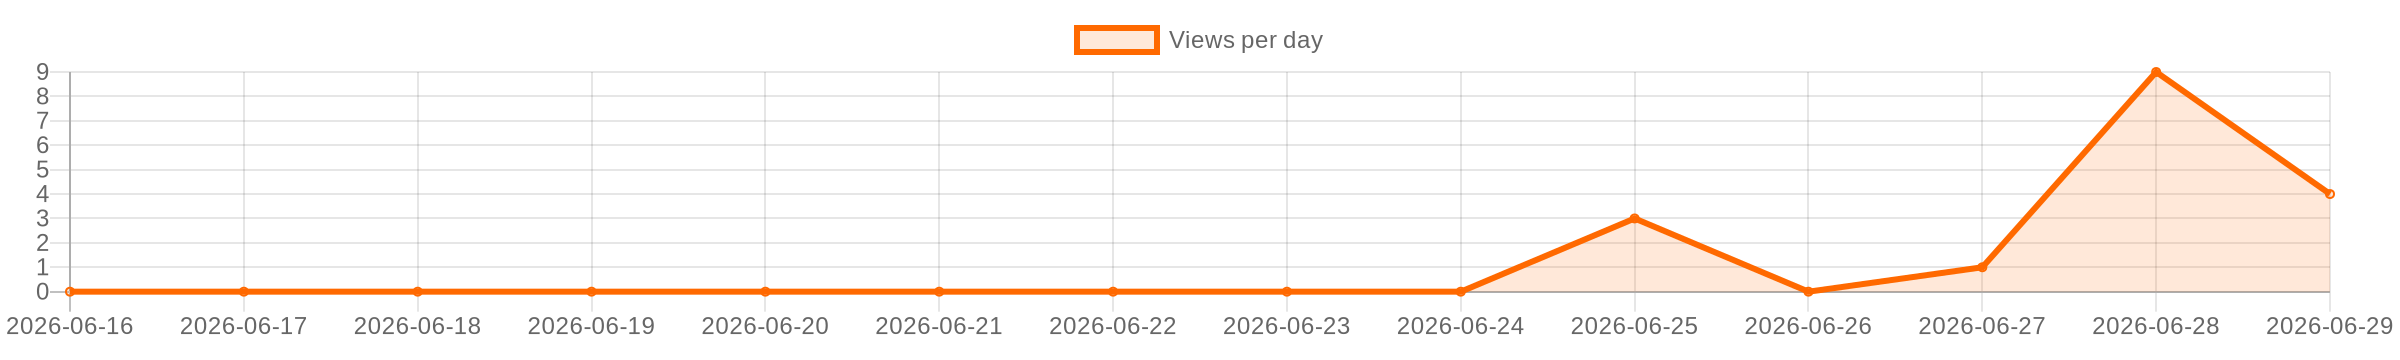
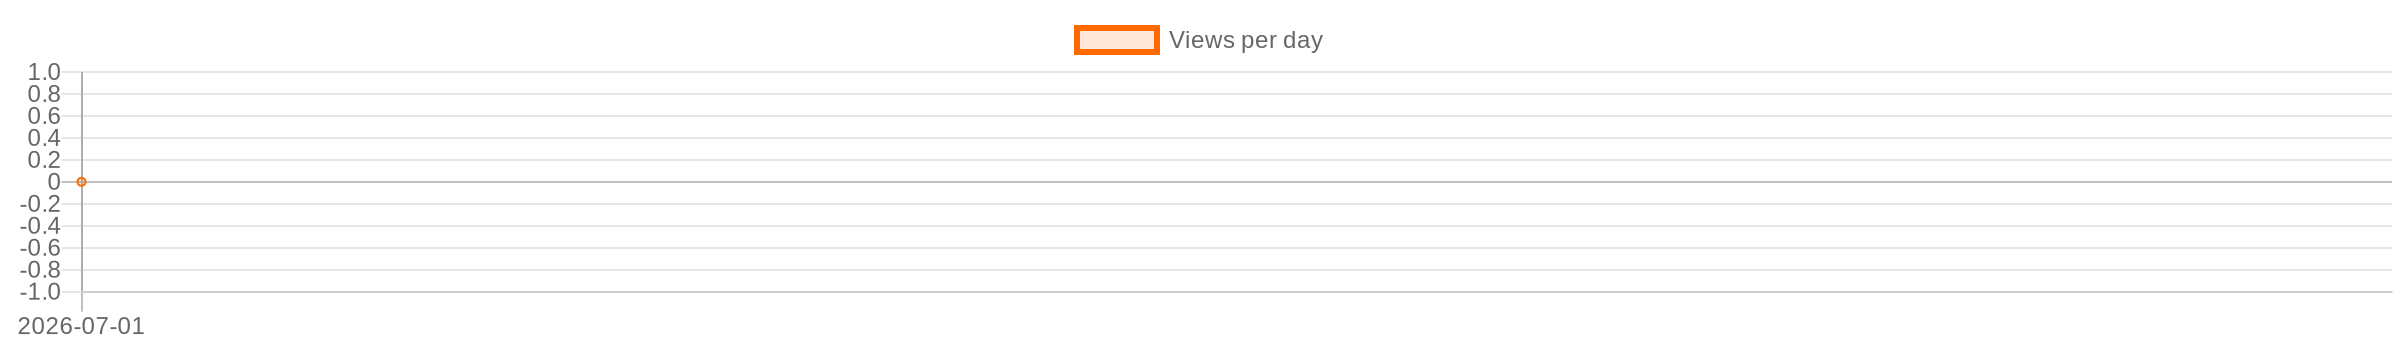
update README stats, graph, issues and translation [skip ci]

diff --git a/README.en.md b/README.en.md
@@ -13,11 +13,11 @@
 
 
 <!-- STATS_START -->
-<!-- auto-updated by GitHub Actions · 2026-07-01 04:00 UTC -->
+<!-- auto-updated by GitHub Actions · 2026-07-01 05:00 UTC -->
 
 [![Views local](https://img.shields.io/badge/Views_local-0-ff6900?style=for-the-badge&logo=github)](https://github.com/gooog1111/luci-i18n-OpenClash-ru)
-[![Views GitHub](https://img.shields.io/badge/Views_GitHub-17-ff6900?style=for-the-badge&logo=github)](https://github.com/gooog1111/luci-i18n-OpenClash-ru)
-[![Unique visitors](https://img.shields.io/badge/Unique-7-blue?style=for-the-badge&logo=github)](https://github.com/gooog1111/luci-i18n-OpenClash-ru)
+[![Views GitHub](https://img.shields.io/badge/Views_GitHub-0-ff6900?style=for-the-badge&logo=github)](https://github.com/gooog1111/luci-i18n-OpenClash-ru)
+[![Unique visitors](https://img.shields.io/badge/Unique-0-blue?style=for-the-badge&logo=github)](https://github.com/gooog1111/luci-i18n-OpenClash-ru)
 [![Clones](https://img.shields.io/badge/Clones-294-purple?style=for-the-badge&logo=github)](https://github.com/gooog1111/luci-i18n-OpenClash-ru)
 [![Stars](https://img.shields.io/badge/Stars-1-yellow?style=for-the-badge&logo=github)](https://github.com/gooog1111/luci-i18n-OpenClash-ru/stargazers)
 [![Forks](https://img.shields.io/badge/Forks-0-green?style=for-the-badge&logo=github)](https://github.com/gooog1111/luci-i18n-OpenClash-ru/network/members)
@@ -50,7 +50,7 @@
 
 
 <!-- ISSUES_START -->
-<!-- auto-updated by GitHub Actions · 2026-07-01 04:00 UTC -->
+<!-- auto-updated by GitHub Actions · 2026-07-01 05:00 UTC -->
 
 ## Issues
 

diff --git a/README.md b/README.md
@@ -13,11 +13,11 @@
 
 
 <!-- STATS_START -->
-<!-- auto-updated by GitHub Actions · 2026-07-01 04:00 UTC -->
+<!-- auto-updated by GitHub Actions · 2026-07-01 05:00 UTC -->
 
 [![Views local](https://img.shields.io/badge/Views_local-0-ff6900?style=for-the-badge&logo=github)](https://github.com/gooog1111/luci-i18n-OpenClash-ru)
-[![Views GitHub](https://img.shields.io/badge/Views_GitHub-17-ff6900?style=for-the-badge&logo=github)](https://github.com/gooog1111/luci-i18n-OpenClash-ru)
-[![Unique visitors](https://img.shields.io/badge/Unique-7-blue?style=for-the-badge&logo=github)](https://github.com/gooog1111/luci-i18n-OpenClash-ru)
+[![Views GitHub](https://img.shields.io/badge/Views_GitHub-0-ff6900?style=for-the-badge&logo=github)](https://github.com/gooog1111/luci-i18n-OpenClash-ru)
+[![Unique visitors](https://img.shields.io/badge/Unique-0-blue?style=for-the-badge&logo=github)](https://github.com/gooog1111/luci-i18n-OpenClash-ru)
 [![Clones](https://img.shields.io/badge/Clones-294-purple?style=for-the-badge&logo=github)](https://github.com/gooog1111/luci-i18n-OpenClash-ru)
 [![Stars](https://img.shields.io/badge/Stars-1-yellow?style=for-the-badge&logo=github)](https://github.com/gooog1111/luci-i18n-OpenClash-ru/stargazers)
 [![Forks](https://img.shields.io/badge/Forks-0-green?style=for-the-badge&logo=github)](https://github.com/gooog1111/luci-i18n-OpenClash-ru/network/members)
@@ -50,7 +50,7 @@
 
 
 <!-- ISSUES_START -->
-<!-- auto-updated by GitHub Actions · 2026-07-01 04:00 UTC -->
+<!-- auto-updated by GitHub Actions · 2026-07-01 05:00 UTC -->
 
 ## Issues
 
